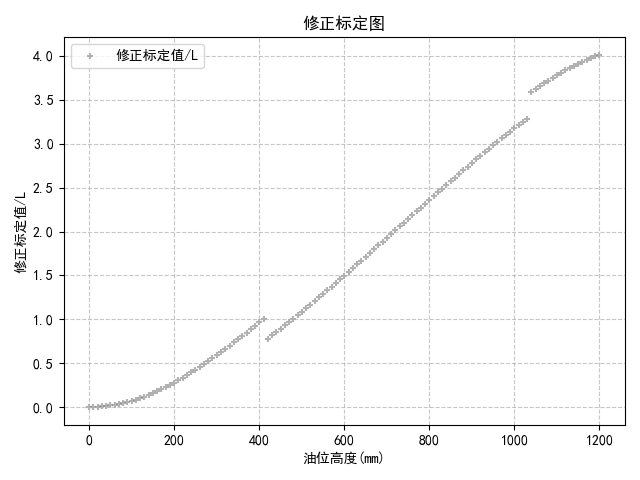
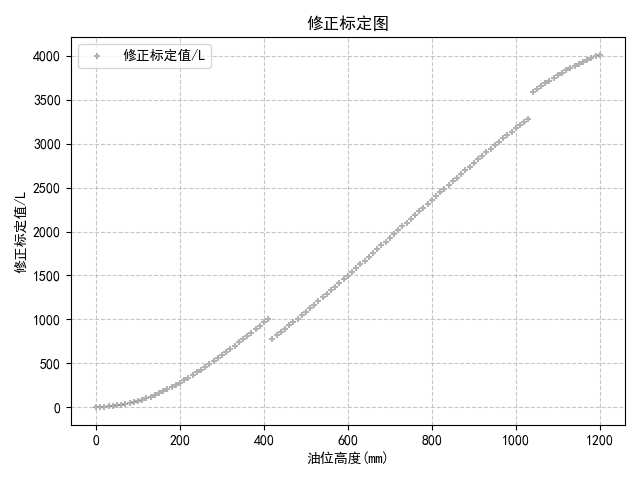
add:smooth sliding

diff --git a/Q1.py b/Q1.py
@@ -274,7 +274,7 @@ if __name__ == "__main__":
     if option=='修正标定':
         df=pd.read_excel('Q1_已修正标定表.xlsx', sheet_name='已修正标定表')
         # 绘制修正标定图
-        plt.scatter(df['Height/mm'], df['修正标定值/L']/1000, label='修正标定值/L', color='gray',alpha=0.6,marker='+', s=20)
+        plt.scatter(df['Height/mm'], df['修正标定值/L'], label='修正标定值/L', color='gray',alpha=0.6,marker='+', s=20)
         plt.xlabel('油位高度(mm)')
         plt.ylabel('修正标定值/L')
         plt.title('修正标定图')
@@ -284,4 +284,21 @@ if __name__ == "__main__":
         plt.savefig("Figure/Q1修正标定图.png")
         plt.show()
         plt.close()
+
+        # 计算5项滑动平均
+        df['修正标定值_平滑/L'] = df['修正标定值/L'].rolling(window=5, center=True).mean()
+        df.to_excel('Q1_已修正标定表.xlsx', sheet_name='已修正标定表', index=False)
+
+        # 绘制修正标定图
+        plt.scatter(df['Height/mm'], df['修正标定值_平滑/L'], label='原始值', color='gray', alpha=0.6, marker='+', s=20)
+        plt.xlabel('油位高度(mm)')
+        plt.ylabel('修正标定值/L')
+        plt.title('修正标定图（带5项滑动平均）')
+        plt.grid(True, linestyle='--', alpha=0.7)
+        plt.legend()
+        plt.tight_layout()
+        plt.savefig("Figure/Q1修正标定图_平滑.png")
+        plt.show()
+        plt.close()
+
 

diff --git a/README.md b/README.md
@@ -9,6 +9,7 @@ It contains the works in the first week.
 3. 对h以0.01m步进计算对应体积
 4. 计算并采用多项式拟合残差
 5. 修正公式并重新计算第三步
+6. 对结果进行5项滑动平均使更平滑
 ### 问题二
 
 ## 运行结果
@@ -19,5 +20,6 @@ It contains the works in the first week.
 4. [误差散点图](Figure/Q1误差散点图.png)
 5. [绝对误差拟合](Figure/Q1绝对误差拟合.png)
 6. [已修正标定图](Figure/Q1修正标定图.png)
-7. 绝对误差拟合方程： W (h) = 0.2881h^3 - 1.0258h^2 + 1.0225h - 0.0071
+7. [已修正标定图（带5项滑动平均）](Figure/Q1修正标定图_平滑.png)
+8. 绝对误差拟合方程： W (h) = 0.2881h^3 - 1.0258h^2 + 1.0225h - 0.0071
 ### 问题二
